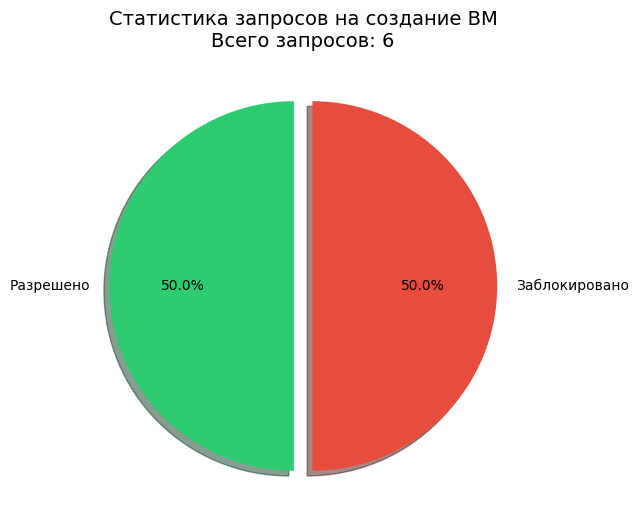
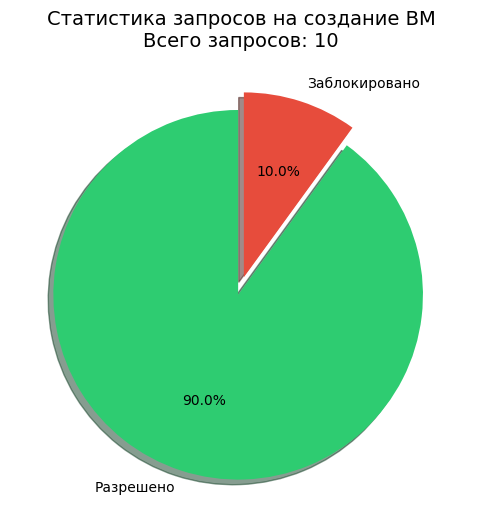
Resolve merge conflicts and establish a new entry point for the application
Fixes merge conflicts in `main_cont.py` by separating it into `main_cont.py` (VM simulation) and `main_LR.py` (depreciation calculations). Adds `main.py` as the new entry point, installs missing dependencies (`psutil`, `python-dotenv`), and updates `pyproject.toml` and `replit.md`.

Replit-Commit-Author: Agent
Replit-Commit-Session-Id: dd66fecf-1377-41e0-ba31-3accc4f3c212
Replit-Commit-Checkpoint-Type: full_checkpoint
Replit-Commit-Event-Id: b33c47cc-89e5-4f6a-8bcb-baeb60990839
Replit-Helium-Checkpoint-Created: true

diff --git a/main_cont.py b/main_cont.py
@@ -1,18 +1,15 @@
-<<<<<<< HEAD
 from calc import check_vm_creation
 from visual import show_chart
 import json, os
 from datetime import datetime
 
-# Журнал событий
 logs = []
 os.makedirs("logs", exist_ok=True)
 
 print(" Защищённый контейнер запущен")
 
-# Симулируем 10 запросов от разных пользователей
 for i in range(10):
-    user = f"user_{i % 3}"  # 3 разных пользователя
+    user = f"user_{i % 3}"
     result = check_vm_creation(user)
     
     log = {
@@ -27,132 +24,7 @@ for i in range(10):
 
 show_chart(logs)
 
-# Сохраняем журнал
 with open("logs/events.json", "w", encoding="utf-8") as f:
     json.dump(logs, f, ensure_ascii=False, indent=2)
 
 print("\n Работа завершена! Проверь папку logs")
-=======
-from sympy import *
-import pandas as pd
-import numpy as np
-import matplotlib.pyplot as plt
-import os
-
-k, T, C, L = symbols("k T C L")
-
-
-# Линейный способ
-# Линейный способ
-C_ost = 1000000  # изменено на 40000
-Am_lst = []
-C_ost_lst = []
-for i in range(15):
-    Am = (C - L) / T
-    C_ost -= Am.subs({C: 1000000, T: 15, L: 0})  # изменено 40000 и 10 лет
-    Am_lst.append(round(Am.subs({C: 100000, T: 15, L: 0}), 2))  # изменено 40000 и 10 лет
-    C_ost_lst.append(round(C_ost, 2))
-print("Am_lst = ", Am_lst)
-print("C_ost_lst = ", C_ost_lst)
-
-# Способ уменьшающего остатка
-Aj = 0
-C_ost = 1000000  # изменено 1000000 и 15 лет
-Am_lst_2 = []
-C_ost_lst_2 = []
-for i in range(15):
-    Am = k * 1 / T * (C - Aj)
-    C_ost -= Am.subs({C: 1000000, T: 15, L: 0})  # изменено 40000 и 10 лет
-    Am_lst_2.append(
-        round(Am.subs({C: 1000000, T: 15, L: 0}), 2)
-    )  # изменено 1000000 и 15 лет
-    Aj += Am
-    C_ost_lst_2.append(round(C_ost, 2))
-print("Am_lst_2:", Am_lst_2)
-print("C_ost_lst_2:", C_ost_lst_2)
-
-
-# Табличный вывод
-Y = range(1, 16)  # цикл от 1 до 10 включительно
-table1 = list(zip(Y, C_ost_lst, Am_lst))
-table2 = list(zip(Y, C_ost_lst_2, Am_lst_2))
-tframe1 = pd.DataFrame(table1, columns=["Y", "C_ost_lst", "Am_lst"])
-tframe2 = pd.DataFrame(table2, columns=["Y", "C_ost_lst_2", "Am_lst_2"])
-print(tframe1)
-print(tframe2)
-
-# Визуализация
-plt.plot(tframe1["Y"], tframe1["C_ost_lst"], label="Am")
-plt.savefig("chart7.png")
-plt.figure()
-
-plt.plot(tframe2["Y"], tframe2["C_ost_lst_2"], label="Am2")
-plt.savefig("chart8.png")
-plt.figure()
-
-
-vals = Am_lst
-labels = [str(x) for x in range(1, 16)]  # цикл от 1 до 10 включительно
-explode = (0.1, 0.1, 0.1, 0.1, 0.1, 0.1, 0.1, 0.1, 0.1, 0.1, 0.1, 0.1, 0.1, 0.1, 0.1)   # стало 10 элементов
-fig, ax = plt.subplots()
-ax.pie(
-    vals,
-    labels=labels,
-    autopct="%1.1f%%",
-    shadow=True,
-    explode=explode,
-    wedgeprops={"lw": 1, "ls": "--", "edgecolor": "k"},
-    rotatelabels=True,
-)
-ax.axis("equal")
-plt.savefig("chart9.png")
-plt.figure()
-
-vals = Am_lst_2
-labels = [str(x) for x in range(1, 16)]  # цикл от 1 до 10 включительно
-explode = (0.1, 0.1, 0.1, 0.1, 0.1, 0.1, 0.1, 0.1, 0.1, 0.1, 0.1, 0.1, 0.1, 0.1, 0.1)  # стало 16 элементов
-fig, ax = plt.subplots()
-ax.pie(
-    vals,
-    labels=labels,
-    autopct="%1.1f%%",
-    shadow=True,
-    explode=explode,
-    wedgeprops={"lw": 1, "ls": "--", "edgecolor": "k"},
-    rotatelabels=True,
-)
-ax.axis("equal")
-plt.savefig("chart10.png")
-plt.figure()
-
-table1 = list(zip(Y, Am_lst))
-table2 = list(zip(Y, Am_lst_2))
-tframe_am = pd.DataFrame(table1, columns=["Y", "Am_lst"])
-plt.bar(tframe1["Y"], tframe1["Am_lst"])
-plt.savefig("chart11.png")
-plt.figure()
-
-table1 = list(zip(Y, Am_lst))
-table2 = list(zip(Y, Am_lst_2))
-tframe2_am = pd.DataFrame(table2, columns=["Y", "Am_lst_2"])
-plt.bar(tframe2["Y"], tframe2["Am_lst_2"])
-plt.savefig("chart12.png")
-plt.figure()  # Что происходит вообще здесь?????
-# в строке кода 105 в переменную plt передается значение функции plt.figure(), которая создает новую фигуру для построения графиков.
-
-
-# s1_Tarasenko = os.environ.get('s1_Tarasenko')
-# print(s1_Tarasenko)
-# s2_Pinchuk = os.environ.get('s2_Pinchuk')
-# print(s2_Pinchuk)
-# s3_Markin = os.environ.get('s3_Markin')
-# print(s3_Markin)
-
-
-# Задание 1: работал с Тарасенко Кириллом Юрьевичем
-# Задание 2: работал c Маркиным Тимофеем Вадимовичем
-# Задание 3: Маркин Тимофей Вадимович проверил, всё корректно
-# Задание 4: работал с Маркин Тимофеем Вадимовичем
-
-
->>>>>>> 15621c7c1e52cc98ffd21f75d9a6ff8d465b471f

diff --git a/main_LR.py b/main_LR.py
@@ -1,0 +1,105 @@
+from sympy import *
+import pandas as pd
+import numpy as np
+import matplotlib.pyplot as plt
+import os
+
+k, T, C, L = symbols("k T C L")
+
+os.makedirs("visual_LR", exist_ok=True)
+
+# Линейный способ
+C_ost = 1000000
+Am_lst = []
+C_ost_lst = []
+for i in range(15):
+    Am = (C - L) / T
+    C_ost -= Am.subs({C: 1000000, T: 15, L: 0})
+    Am_lst.append(round(Am.subs({C: 100000, T: 15, L: 0}), 2))
+    C_ost_lst.append(round(C_ost, 2))
+print("Am_lst = ", Am_lst)
+print("C_ost_lst = ", C_ost_lst)
+
+# Способ уменьшающего остатка
+Aj = 0
+C_ost = 1000000
+Am_lst_2 = []
+C_ost_lst_2 = []
+for i in range(15):
+    Am = k * 1 / T * (C - Aj)
+    C_ost -= Am.subs({C: 1000000, T: 15, L: 0})
+    Am_lst_2.append(
+        round(Am.subs({C: 1000000, T: 15, L: 0}), 2)
+    )
+    Aj += Am
+    C_ost_lst_2.append(round(C_ost, 2))
+print("Am_lst_2:", Am_lst_2)
+print("C_ost_lst_2:", C_ost_lst_2)
+
+# Табличный вывод
+Y = range(1, 16)
+table1 = list(zip(Y, C_ost_lst, Am_lst))
+table2 = list(zip(Y, C_ost_lst_2, Am_lst_2))
+tframe1 = pd.DataFrame(table1, columns=["Y", "C_ost_lst", "Am_lst"])
+tframe2 = pd.DataFrame(table2, columns=["Y", "C_ost_lst_2", "Am_lst_2"])
+print(tframe1)
+print(tframe2)
+
+# Визуализация
+plt.plot(tframe1["Y"], tframe1["C_ost_lst"], label="Am")
+plt.savefig("visual_LR/chart7.png")
+plt.figure()
+
+plt.plot(tframe2["Y"], tframe2["C_ost_lst_2"], label="Am2")
+plt.savefig("visual_LR/chart8.png")
+plt.figure()
+
+vals = Am_lst
+labels = [str(x) for x in range(1, 16)]
+explode = (0.1, 0.1, 0.1, 0.1, 0.1, 0.1, 0.1, 0.1, 0.1, 0.1, 0.1, 0.1, 0.1, 0.1, 0.1)
+fig, ax = plt.subplots()
+ax.pie(
+    vals,
+    labels=labels,
+    autopct="%1.1f%%",
+    shadow=True,
+    explode=explode,
+    wedgeprops={"lw": 1, "ls": "--", "edgecolor": "k"},
+    rotatelabels=True,
+)
+ax.axis("equal")
+plt.savefig("visual_LR/chart9.png")
+plt.figure()
+
+vals = Am_lst_2
+labels = [str(x) for x in range(1, 16)]
+explode = (0.1, 0.1, 0.1, 0.1, 0.1, 0.1, 0.1, 0.1, 0.1, 0.1, 0.1, 0.1, 0.1, 0.1, 0.1)
+fig, ax = plt.subplots()
+ax.pie(
+    vals,
+    labels=labels,
+    autopct="%1.1f%%",
+    shadow=True,
+    explode=explode,
+    wedgeprops={"lw": 1, "ls": "--", "edgecolor": "k"},
+    rotatelabels=True,
+)
+ax.axis("equal")
+plt.savefig("visual_LR/chart10.png")
+plt.figure()
+
+table1 = list(zip(Y, Am_lst))
+table2 = list(zip(Y, Am_lst_2))
+tframe_am = pd.DataFrame(table1, columns=["Y", "Am_lst"])
+plt.bar(tframe1["Y"], tframe1["Am_lst"])
+plt.savefig("visual_LR/chart11.png")
+plt.figure()
+
+table1 = list(zip(Y, Am_lst))
+table2 = list(zip(Y, Am_lst_2))
+tframe2_am = pd.DataFrame(table2, columns=["Y", "Am_lst_2"])
+plt.bar(tframe2["Y"], tframe2["Am_lst_2"])
+plt.savefig("visual_LR/chart12.png")
+plt.figure()
+
+print("\nГрафики сохранены в папке visual_LR/")

diff --git a/main.py b/main.py
@@ -1,0 +1,1 @@
+from main_cont import *

diff --git a/replit.md b/replit.md
@@ -1,0 +1,39 @@
+# Project Overview
+
+Python-based utility with two distinct functional modules:
+
+## Modules
+
+### 1. VM Creation Simulation (`main_cont.py`)
+Simulates user requests to create virtual machines with rate limiting and disk space checks. Logs results and generates visual reports (pie chart + bar chart) in the `logs/` directory.
+
+- Entry point: `main.py` (imports from `main_cont.py`)
+- Core logic: `calc.py` (rate limiting, disk usage check)
+- Visualization: `visual.py` (matplotlib charts)
+- Output: `logs/events.json`, `logs/stats_pie.png`, `logs/stats_bar.png`
+
+### 2. Depreciation Calculations (`main_LR.py`)
+Performs financial depreciation calculations using two methods:
+- Linear (straight-line) depreciation
+- Declining balance (reducing balance) depreciation
+
+Generates charts (chart7–chart12) in the `visual_LR/` directory.
+
+## Tech Stack
+
+- **Language:** Python 3.11+
+- **Data Analysis:** pandas, numpy
+- **Math/Symbolic:** sympy
+- **Visualization:** matplotlib
+- **System Monitoring:** psutil
+- **Config:** python-dotenv
+
+## Configuration
+
+Environment variables (via `.env`):
+- `RATE_LIMIT_THRESHOLD` — max VM requests per minute per user (default: 3)
+- `DISK_CRITICAL_PERCENT` — disk usage threshold to block requests (default: 90)
+
+## Workflow
+
+- **Start application** — runs `python main.py` (console output)
